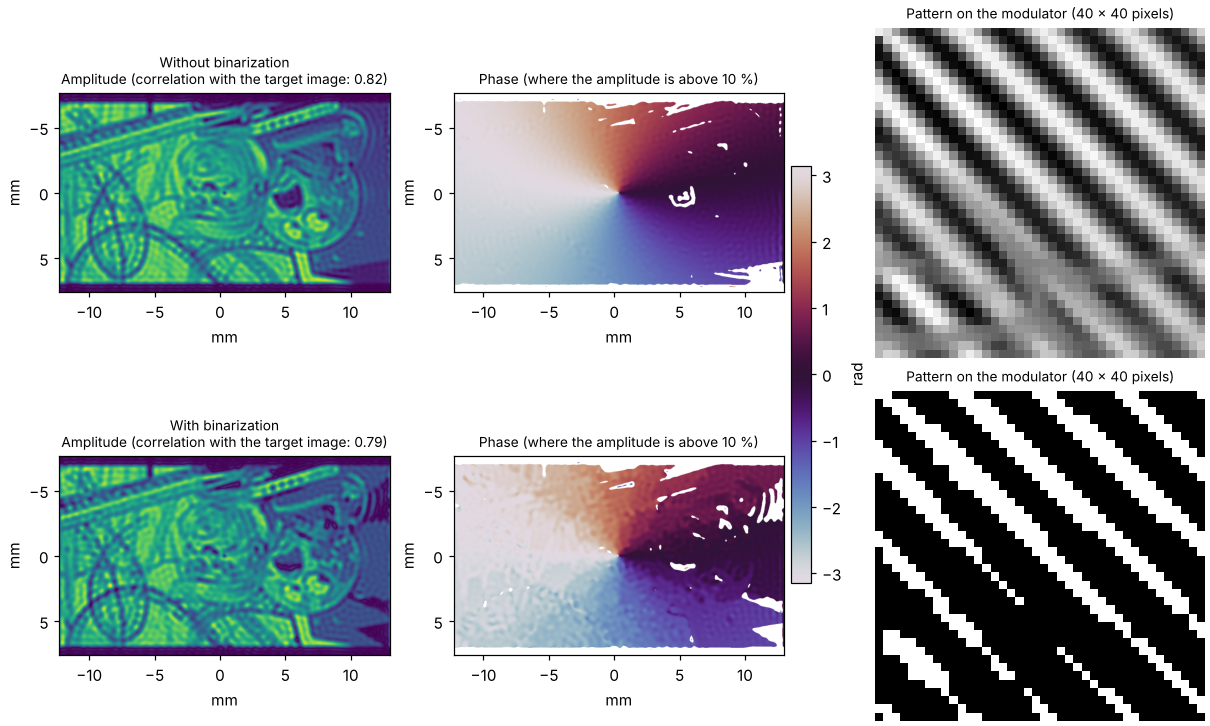
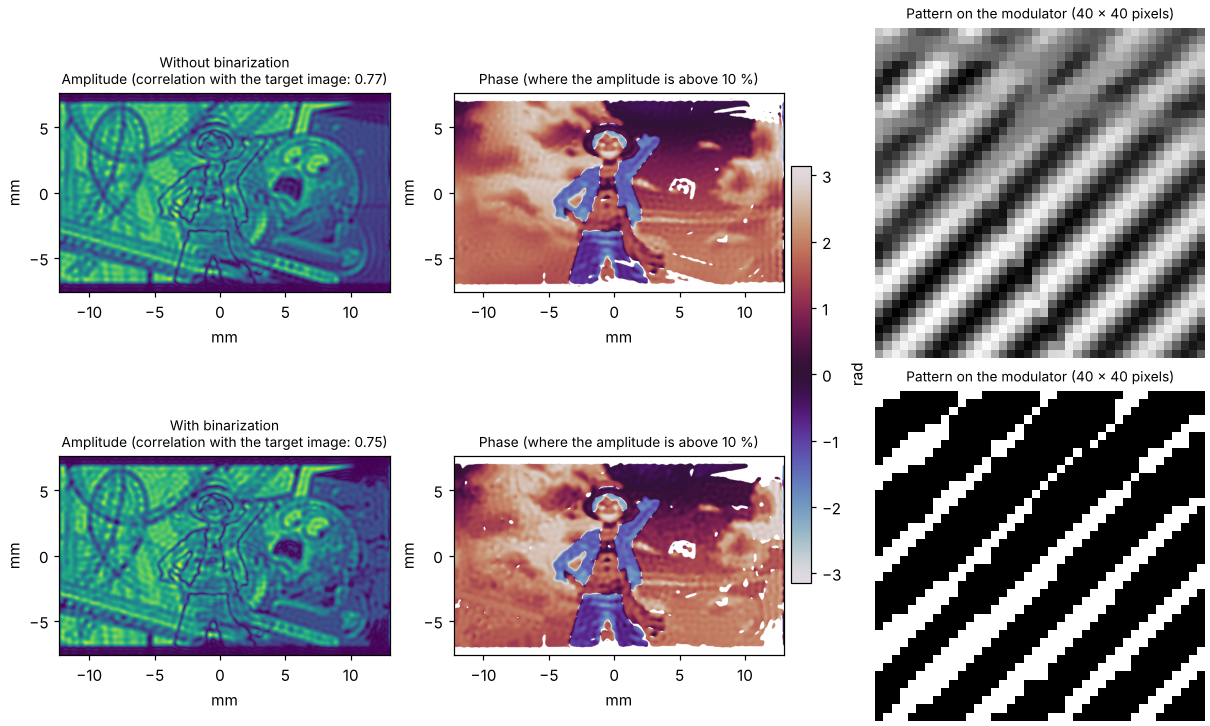
DMD Lee: the selected order carries the phase of the target; snapshots with the default ImageFiles
Claude-Session: https://claude.ai/code/session_01RKuN81gmd2uDBFfGpqGy9k

diff --git a/docs/scripts/dmd_lee_snapshots.py b/docs/scripts/dmd_lee_snapshots.py
@@ -1,6 +1,6 @@
 """Makes the figure of the DMD Lee algorithm of the documentation (docs/src/_images/dmd_lee_binarization.png)
 
-The same target (the default image of the *ImageFiles* loader as amplitude, a vortex of charge 1 as phase) is computed
+The same target (the default *ImageFiles* loader: its image as amplitude and its associated phase) is computed
 with the algorithm, with and without the binarization of the pattern (by width modulation of the stripes), with the
 helpers of the script
 ``scripts/algorithm_playground.py``. Run it with ``python dmd_lee_snapshots.py`` (the figure is written next to the
@@ -23,11 +23,7 @@ MASK_HALF_SIZE = 150.  # um, half size of the elliptical mask of the intermediat
 pg.ensure_qapp()
 app = pg.HeadlessApp(pg.make_shaper(modulator_type='amplitude'))
 input_field = pg.load_field('GaussianIntensity', None, app)
-target_field = pg.load_field('ImageFiles', {'phase.load': False}, app)
-
-# a phase for the target: a vortex of charge 1 around the center of the field
-yy, xx = np.indices(target_field.shape)
-target_field.phase = np.arctan2(yy - target_field.shape[0] / 2, xx - target_field.shape[1] / 2)
+target_field = pg.load_field('ImageFiles', None, app)  # the default image and its associated phase
 
 def make_algorithm(binarize: bool):
     algo = pg.create_algorithm(pg.reload_algorithm('DMD Lee'), app, {'binarize': binarize, 'super_pixel': SUPER_PIXEL})
@@ -70,21 +66,21 @@ window = (slice(max(rows.min() - margin, 0), rows.max() + margin), slice(max(col
 target_region = (slice(rows.min(), rows.max()), slice(columns.min(), columns.max()))
 ny, nx = reference.shape
 extent = np.array([window[1].start - nx / 2, window[1].stop - nx / 2,
-                   window[0].stop - ny / 2, window[0].start - ny / 2]) * pixel_size / 1000  # mm
+                   window[0].start - ny / 2, window[0].stop - ny / 2]) * pixel_size / 1000  # mm
 
 figure, axes = plt.subplots(2, 3, figsize=(11, 6.6), constrained_layout=True)
 for row, (binarize, label) in enumerate(((False, 'Without binarization'), (True, 'With binarization'))):
     amplitude, phase, pattern = results[binarize]
     amplitude = amplitude / amplitude[window].max()
-    axes[row, 0].imshow(amplitude[window], extent=extent, cmap='viridis', vmin=0, vmax=1)
+    axes[row, 0].imshow(amplitude[window], extent=extent, origin='lower', cmap='viridis', vmin=0, vmax=1)
     axes[row, 0].set_title(f'{label}\nAmplitude (correlation with the target image: '
                            f'{correlation(results[binarize][0][target_region], reference[target_region]):.2f})', fontsize=9)
     shown_phase = np.where(amplitude > 0.1, phase, np.nan)  # the phase only where there is light
-    image = axes[row, 1].imshow(shown_phase[window], extent=extent, cmap='twilight', vmin=-np.pi, vmax=np.pi)
+    image = axes[row, 1].imshow(shown_phase[window], extent=extent, origin='lower', cmap='twilight', vmin=-np.pi, vmax=np.pi)
     axes[row, 1].set_title('Phase (where the amplitude is above 10 %)', fontsize=9)
     centre = np.array(pattern.shape) // 2
     zoom = (slice(centre[0], centre[0] + 40), slice(centre[1], centre[1] + 40))
-    axes[row, 2].imshow(pattern[zoom], cmap='gray', vmin=0, vmax=1, interpolation='nearest')
+    axes[row, 2].imshow(pattern[zoom], cmap='gray', vmin=0, vmax=1, interpolation='nearest', origin='lower')
     axes[row, 2].set_title('Pattern on the modulator (40 x 40 pixels)', fontsize=9)
     for ax in axes[row, :2]:
         ax.set_xlabel('mm')

diff --git a/src/pymodaq_plugins_beam_shaping/algorithms/algorithms/dmd_lee.py b/src/pymodaq_plugins_beam_shaping/algorithms/algorithms/dmd_lee.py
@@ -118,11 +118,24 @@ class DmDLee(AlgoBase):
         amplitude[amplitude <= threshold] = 0
         return amplitude
 
+    def order_sign(self) -> int:
+        """ Sign of the target phase in the pattern so that the order selected by the intermediate mask carries the
+        phase of the target (and not its opposite)
+
+        The two first orders of ``cos(theta - s phi)`` carry the phases ``-s phi`` (at the positive frequency
+        ``(1, -1) / period``) and ``+s phi`` (at the negative one): the order at the positive frequency needs s = -1.
+        Without mask (no order selected) s = 1.
+        """
+        carrier = self.get_carrier()
+        if carrier is None:
+            return 1
+        return -1 if carrier[1] - carrier[0] > 0 else 1
+
     def compute_amplitude_pattern(self) -> np.ndarray:
         xx, yy = self.compute_grid()
 
         modulation_depth = self._target_field.normalise_to_one().amplitude  # 1 where the target is the brightest
-        phase = 2 * np.pi * (xx - yy) / self.settings['super_pixel'] - self._target_field.phase
+        phase = 2 * np.pi * (xx - yy) / self.settings['super_pixel'] - self.order_sign() * self._target_field.phase
 
         if self.settings['binarize'] and self.settings['binarize_method'] == BINARIZATIONS[0]:
             # binary Lee hologram: the pixel is on where cos(phase) > cos(pi * w), the stripes of relative width

diff --git a/tests/test_dmd_lee.py b/tests/test_dmd_lee.py
@@ -180,3 +180,21 @@ def test_the_binarization_by_threshold_loses_the_amplitude_of_the_target(qapp):
     lee.settings.child('binarize_method').setValue('Threshold')  # at 0.5, whatever the depth: on where cos(phase) > 0
     pattern = lee.compute_amplitude_pattern()
     assert pattern[:, :nx // 2].mean() == pytest.approx(pattern[:, nx // 2:].mean(), abs=0.02)
+
+
+def test_the_selected_order_carries_the_phase_of_the_target_whichever_side_it_is(qapp):
+    """The two first orders of the grating carry opposite phases: the sign of the target phase in the pattern follows
+    the order selected by the mask"""
+    lee = _Lee()
+    lee.settings.child('binarize').setValue(False)
+    lee._target_field.phase = np.full(lee.shape, 0.7)
+    ny, nx = lee.shape
+    patterns = []
+    for columns in (slice(nx // 2 + 10, nx // 2 + 20), slice(nx // 2 - 20, nx // 2 - 10)):
+        lee.mask_slices = (slice(ny // 2 - 5, ny // 2 + 5), columns)
+        patterns.append(lee.compute_amplitude_pattern())
+    xx, yy = lee.compute_grid()
+    theta = 2 * np.pi * (xx - yy) / lee.settings['super_pixel']
+    assert lee.order_sign() == 1  # the mask on the negative frequency side
+    assert np.allclose(patterns[1], 0.5 * (1 + np.cos(theta - 0.7)))
+    assert np.allclose(patterns[0], 0.5 * (1 + np.cos(theta + 0.7)))

diff --git a/docs/src/user_guide/algorithm_reference.rst b/docs/src/user_guide/algorithm_reference.rst
@@ -77,6 +77,10 @@ settings, which this algorithm needs), is the target field.
 * ``threshold`` (default 0.5): level of the *Threshold* binarization.
 * ``Remove carrier`` (default checked), ``Carrier from`` and ``Carrier factor``: see below.
 
+The two first orders of the grating carry opposite phases (``+φ`` and ``-φ``): the algorithm gives the sign of the
+target phase in the pattern according to the side of the mask of the intermediate plane, so that the order selected
+carries the phase of the target, whichever one it is.
+
 **The carrier.** The selected order is off the optical axis, so the output field carries a linear phase (a tilt of the
 beam, the *carrier*) on top of the phase of the target. With *Remove carrier* the algorithm removes it numerically: the
 spectrum is shifted so that the position of the order goes to the zero frequency. This position is the center of the
@@ -90,10 +94,10 @@ tilt. The phase of the output plane of the algorithm is then the one of the setu
 model of the 4f line used by the extension, it is not checked on a real setup.
 
 **Result with and without binarization.** The figure below shows the output field computed by the algorithm for a
-target whose amplitude is an image and whose phase is a vortex of charge 1, with the binarization off (top) and on
+target given by the default *ImageFiles* loader (an image and its associated phase), with the binarization off (top) and on
 (bottom, width modulation), and the part of the pattern sent to the modulator in each case. The binarization costs some
-fidelity on the amplitude (correlation with the target image: 0.82 and 0.79, computed inside the target region) and
-adds some noise, but the phase of the vortex is kept. The figure is made by ``docs/scripts/dmd_lee_snapshots.py``.
+fidelity on the amplitude (correlation with the target image: 0.77 and 0.75, computed inside the target region) and
+adds some noise, but the phase of the target is kept. The figure is made by ``docs/scripts/dmd_lee_snapshots.py``.
 
 .. image:: ../_images/dmd_lee_binarization.png
    :alt: Output field of DMD Lee, amplitude and phase, without and with binarization
